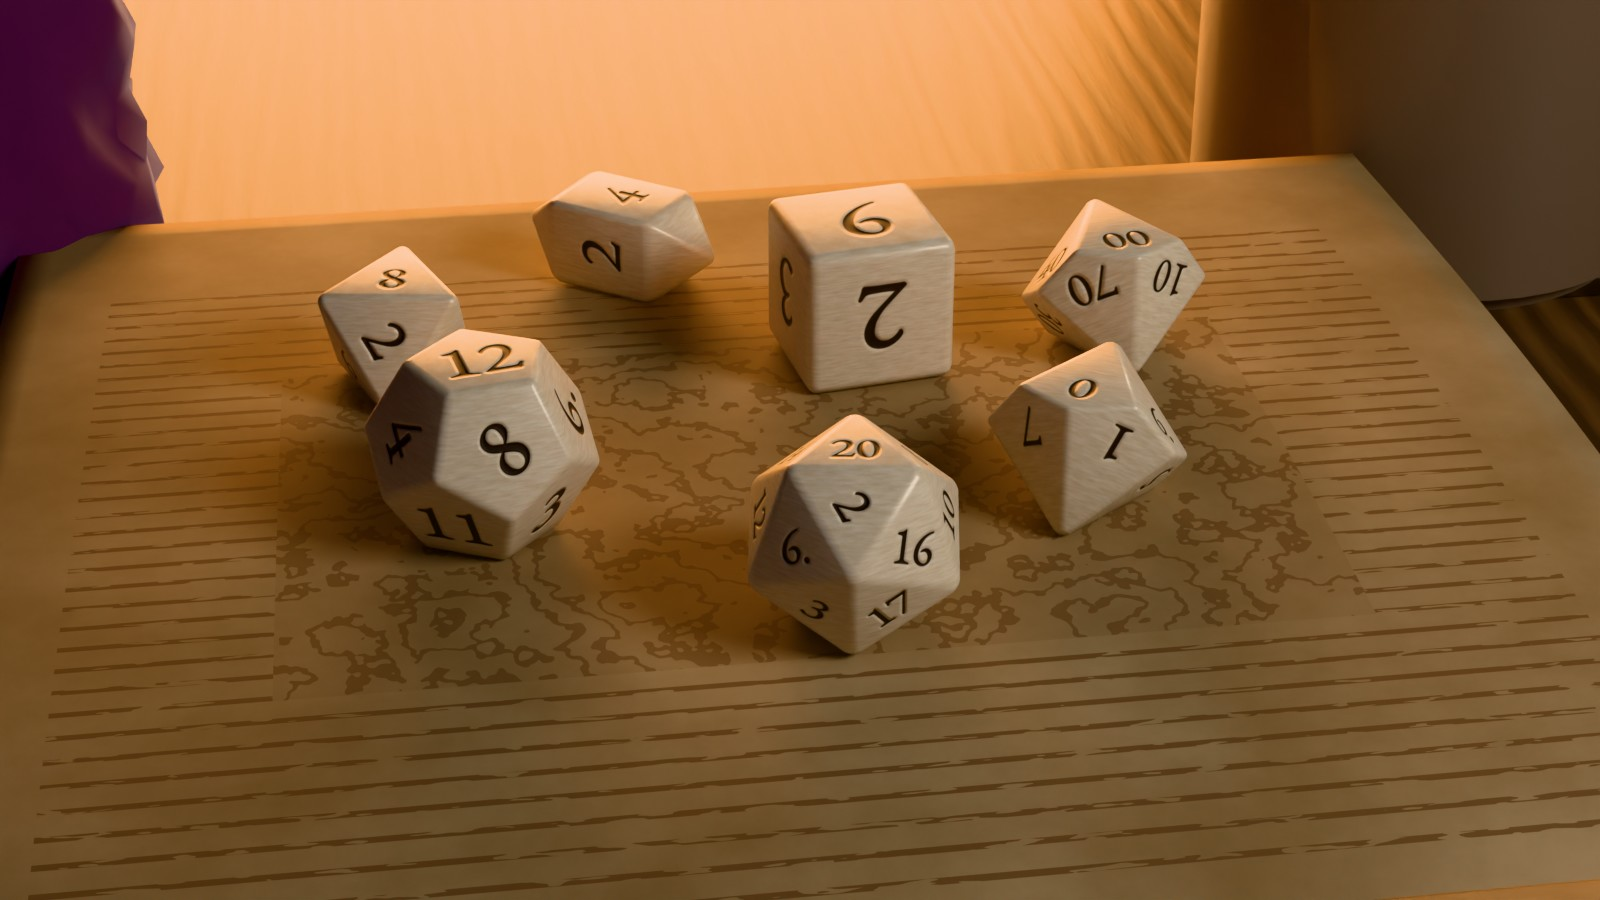
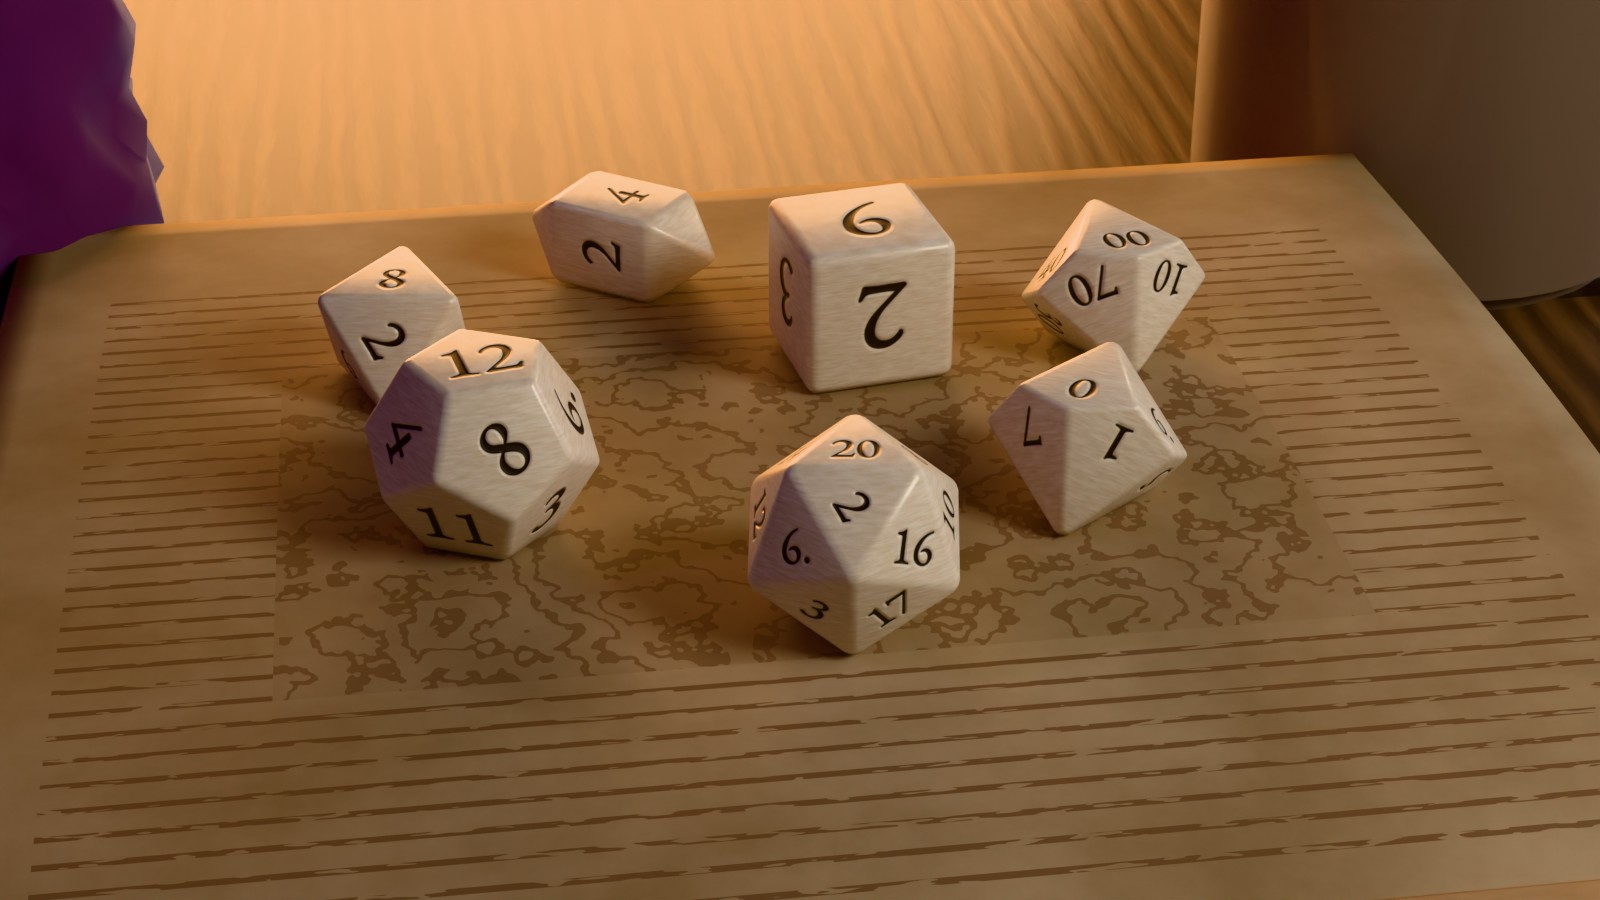
Game rooms: Hearthside reading nook; raised-hearth fireplace option

diff --git a/dart3d/example/tool/dice_lookdev/build_env_northfield.py b/dart3d/example/tool/dice_lookdev/build_env_northfield.py
@@ -20,6 +20,7 @@ import bpy
 
 import env_common as E
 import env_props as P
+import room_common as RC
 
 W, D = E.TRAY_W, E.TRAY_D
 RIM_T, RIM_H = 2.8, 3.0
@@ -249,7 +250,86 @@ def build(scene):
     P.backdrop_window(0, top + 80, 45, 90, 70, sky_top=(0.2, 0.25, 0.35), sky_bot=(0.45, 0.45, 0.5), moon=False,
                       frame_mat=E.simple("Window white", (0.8, 0.8, 0.78), 0.5))
     E.light(scene, "AREA", "dusk", (0, top + 75, 45), 8000, color=(0.6, 0.7, 1.0), size=60, target=(0, 0, 0))
+    rc = room(scene, table, top)
     return dict(
         samples=128, exposure=0.0, hero=dict(dist=32, elev=30, az=8, lens=65, fstop=2.8),
         topdown=dict(width=W + 2 * RIM_T + 3.0),
+        play_view=True, tray_half=(W / 2 + RIM_T, D / 2 + RIM_T), room_cam=rc,
     )
+
+
+def room(scene, table, top):
+    """The 1986 countryside kitchen (concept: room-concepts/northfield-room).
+
+    Striped wallpaper, a checkered lino floor, a run of cream kitchen units
+    along the left and back walls (worktop, patterned tile splashback, wall
+    cupboards, a cooker and a tall fridge), a radiator under the window with
+    floral curtains, and outside the grey field with a tree line and a
+    strange tall machine. Lights from four sides: the orange pendant over
+    the table (warm key, above), the window (grey-blue daylight, back), the
+    CRT (green accent, left) and a strip under the wall cupboards (warm,
+    back-left).
+    """
+    wy = top + 80
+    paper = RC.wallpaper("Kitchen wallpaper", (0.42, 0.36, 0.22), (0.3, 0.33, 0.2), stripes=0.08)
+    RC.shell(half_w=180, back=wy, front=-170, height=250, wall=paper,
+             floor=RC.tiles("Kitchen lino", (0.45, 0.4, 0.32), (0.1, 0.12, 0.08), scale=0.03),
+             openings={"back": [(0, 45, 90, 70)]}, ceiling=RC.plaster("Kitchen ceiling", (0.5, 0.48, 0.44)))
+    white = E.simple("Window white", (0.8, 0.8, 0.78), 0.5)
+    RC.window("back", 0, 45, 90, 70, RC.sky("Field sky", (0.2, 0.25, 0.35), (0.45, 0.45, 0.5), strength=0.9),
+              white, mullions=(2, 1), glow=(30000, (0.65, 0.72, 0.9)))
+    # outside, flat against the grey sky: a tree line and the tall machine
+    far = E.emissive("Far silhouette", (0.17, 0.19, 0.24), 1.0)
+    rng = random.Random(3)
+    for i in range(26):
+        h = rng.uniform(4, 9)
+        E.cylinder("far_tree", 1.4, h, (-45 + i * 3.6, wy + 28, 45 - 35 + 3 + h / 2), far, segs=6, r2=0.1)
+    for a in (-0.25, 0.0, 0.25):
+        leg = E.cylinder("machine_leg", 0.25, 26, (22 + a * 20, wy + 28, 45 - 35 + 16), far, segs=6)
+        leg.rotation_euler = (0, a * 0.9, 0)
+    E.sphere("machine_body", 2.4, (22, wy + 28, 45 - 35 + 30), far, subdiv=2, scale=(1.6, 0.5, 0.7))
+    E.sphere("machine_eye", 0.35, (23.5, wy + 27, 45 - 35 + 30), E.emissive("Machine eye", (1.0, 0.1, 0.05), 6.0))
+    # radiator under the window, floral curtains either side
+    for i in range(14):
+        E.cube("radiator_fin", (3, 8, 45), RC.to_world("back", -35 + i * 5.4, (0, -6, RC.FLOOR_Z + 40)), white,
+               bevel=0.8)
+    cur, k = E.material("Floral curtain")
+    obj = k.coords().outputs["Object"]
+    v = k.voronoi(RC.vertical_coords(k), 0.08)
+    dot = k.math("LESS_THAN", v.outputs["Distance"], 0.25)
+    k.surface(k.bsdf(Base_Color=k.mix(dot, (0.7, 0.66, 0.55, 1), (0.25, 0.35, 0.15, 1)), Roughness=0.9,
+                     Transmission_Weight=0.2, Sheen_Weight=0.5))
+    for sx in (-1, 1):
+        c = E.cube("curtain", (30, 3, 110), RC.to_world("back", sx * 62, (0, -8, 52)), cur)
+        c.modifiers.new("wave", "WAVE").height = 1.5
+    E.cylinder("curtain_rod", 1.0, 170, RC.to_world("back", 0, (0, -8, 110)), P.brass("Rod brass"), segs=12
+               ).rotation_euler = (0, math.radians(90), 0)
+    # kitchen units: base cabinets + worktop along the left wall, cooker, fridge, wall cupboards
+    cream = E.simple("Unit cream", (0.62, 0.58, 0.48), 0.45)
+    wood_top = P.dark_wood("Worktop", c1=(0.12, 0.07, 0.035), c2=(0.3, 0.18, 0.09), varnish=0.4)
+    for u in (-110, -50, 10):
+        RC.cabinet("left", u, w=60, h=86, depth=58, mat=cream, top_mat=wood_top)
+        RC.cabinet("left", u, w=60, h=70, depth=34, z0=RC.FLOOR_Z + 150, mat=cream, doors=2)
+    stove = RC.cabinet("left", 70, w=60, h=86, depth=60, mat=E.simple("Cooker white", (0.8, 0.79, 0.75), 0.3),
+                       doors=1)
+    for dx in (-14, 14):
+        for dy in (-12, 12):
+            p = RC.to_world("left", 70 + dx, (0, -30 + dy, RC.FLOOR_Z + 90.5))
+            E.cylinder("hob_ring", 8, 0.8, p, E.simple("Hob iron", (0.03, 0.03, 0.03), 0.4), segs=24)
+    E.cylinder("kettle", 9, 18, RC.to_world("left", 76, (0, -32, RC.FLOOR_Z + 100)),
+               E.simple("Kettle enamel", (0.7, 0.35, 0.1), 0.25), segs=24, r2=6)
+    E.cube("fridge", (62, 65, 170), RC.to_world("left", 140, (0, -34, RC.FLOOR_Z + 85)), cream, bevel=3.0)
+    tiles_m = RC.tiles("Splashback tiles", (0.75, 0.55, 0.25), (0.35, 0.2, 0.07), scale=0.07, checker=True)
+    back_splash = E.plane("splashback", 240, 60, RC.to_world("left", -20, (0, -1.5, RC.FLOOR_Z + 118)), tiles_m)
+    back_splash.rotation_euler = (math.radians(90), 0, math.radians(90))
+    RC.wall_shelf("left", -50, RC.FLOOR_Z + 128, w=60, depth=10, seed=5, kind="jars", mat=wood_top,
+                  palette=[(0.6, 0.5, 0.3), (0.3, 0.1, 0.05), (0.15, 0.25, 0.1)])
+    E.light(scene, "AREA", "under_cupboard", RC.to_world("left", -40, (0, -25, RC.FLOOR_Z + 146)), 6000,
+            color=(1.0, 0.8, 0.5), size=90, target=RC.to_world("left", -40, (0, -25, RC.FLOOR_Z + 50)))
+    RC.chair(0, 95 - 40, rot=math.radians(180), mat=wood_top, seat_h=46, back_h=40)
+    # the pendant's cord up to the ceiling; the CRT's green spills onto the left side
+    E.cylinder("lamp_cord", 0.35, 250 - 76 - 73, (6, 10, 73 + (250 - 76 - 73) / 2), E.simple("Cord", (0.9, 0.9, 0.9),
+               0.5), segs=6)
+    E.light(scene, "AREA", "crt_spill", (-3.0, top + 10, 14), 2500, color=(0.3, 1.0, 0.45), size=20,
+            target=(-60, -20, 0), shadow=False)
+    return dict(loc=(26, -66, 36), target=(-10, 90, 6), lens=20, fstop=4.0, focus=(0, 0, 2))

diff --git a/dart3d/example/tool/dice_lookdev/build_env_voltline.py b/dart3d/example/tool/dice_lookdev/build_env_voltline.py
@@ -15,6 +15,7 @@ from mathutils import Vector
 
 import env_common as E
 import env_props as P
+import room_common as RC
 
 W, D = E.TRAY_W, E.TRAY_D
 RIM_T, RIM_H = 1.6, 1.8
@@ -131,6 +132,64 @@ def build(scene):
     E.light(scene, "AREA", "neon_c", (22, top + 60, 50), 12000, color=CYAN, size=30, target=(0, 0, 0))
     E.light(scene, "AREA", "key", (0, -40, 50), 1800, color=(0.8, 0.85, 1.0), size=25, target=(0, 0, 0))
     E.haze_box("haze", (200, 200, 80), (0, 60, 40), 0.004, color=(0.9, 0.9, 1.0), noise_scale=0.03)
+    rc = room(scene, top, chrome)
     return dict(
         samples=128, exposure=0.2, topdown=dict(width=W + 2 * RIM_T + 1.0), hero=dict(dist=32, elev=28, az=6, lens=65, fstop=2.8),
+        play_view=True, tray_half=(W / 2 + RIM_T, D / 2 + RIM_T), room_cam=rc,
     )
+
+
+def room(scene, top, chrome):
+    """The late-night diner (concept: room-concepts/voltline-room).
+
+    The tray is on the window counter; the rain window is the whole back
+    wall. To the left the diner runs away from camera: a long chrome-edged
+    bar with red stools, a back bar of bottles, warm pendants over it and a
+    magenta neon strip along the ceiling; black-and-white checker floor,
+    dark panelled walls; across the street, lit windows in the far block.
+    Lights from four sides: the street neon through the window (magenta and
+    cyan, back), the bar pendants (warm, left), the ceiling neon strip
+    (magenta, above-left) and the tray's cool key from the front.
+    """
+    wy = top + 41
+    panel = P.dark_wood("Diner panel", c1=(0.02, 0.012, 0.01), c2=(0.05, 0.03, 0.02), varnish=0.6)
+    RC.shell(half_w=200, back=wy, front=-240, height=210, wall=panel, floor_z=-105.0,
+             floor=RC.tiles("Diner floor", (0.6, 0.58, 0.55), (0.02, 0.02, 0.02), scale=0.025, rough=0.2),
+             openings={"back": [(0, 44, 220, 90)]}, ceiling=E.simple("Diner ceiling", (0.02, 0.02, 0.025), 0.6))
+    E.cube("window_counter_front", (220, 4, 99), (0, -27, -55.5), chrome, bevel=0.5)
+    # lit windows across the street (a card just in front of the far wall)
+    city, k = E.material("Street block")
+    tc = k.coords().outputs["Object"]
+    b = k.node("ShaderNodeTexBrick")
+    k.link(tc, b.inputs["Vector"])
+    k.set(b, Scale=0.08, Mortar_Size=0.25, Color1=(1, 1, 1, 1), Color2=(1, 1, 1, 1), Mortar=(0, 0, 0, 1))
+    lit = k.math("MULTIPLY", k.math("SUBTRACT", 1.0, b.outputs["Fac"]),
+                 k.math("GREATER_THAN", k.noise(tc, 0.3, 2).outputs["Fac"], 0.52))
+    col = k.mix(k.noise(tc, 0.05, 2).outputs["Fac"], (1.0, 0.75, 0.45, 1), (0.5, 0.7, 1.0, 1))
+    k.surface(k.emission(col, k.math("MULTIPLY", lit, 1.2)))
+    card = E.plane("street_block", 400, 200, (0, top + 158, 60), city)
+    card.rotation_euler = (math.radians(90), math.radians(180), 0)
+    # the bar on the left: counter, chrome edge, stools, back bar, pendants
+    red = E.simple("Stool vinyl", (0.4, 0.02, 0.03), 0.3, Coat_Weight=0.6)
+    bar_top = E.simple("Bar top", (0.03, 0.03, 0.035), 0.1, Coat_Weight=1.0)
+    E.cube("bar", (60, 220, 100), (-150, -100, -55), panel, bevel=0.5)
+    E.cube("bar_top", (66, 224, 5), (-150, -100, -3), bar_top, bevel=0.8)
+    E.cube("bar_chrome", (2, 224, 6), (-117, -100, -8), chrome)
+    for i in range(5):
+        y = -190 + i * 45
+        E.cylinder("stool_post", 2.5, 70, (-100, y, -70), chrome, segs=16)
+        E.cylinder("stool_seat", 17, 9, (-100, y, -32), red, segs=32, bevel=2.0)
+        E.cylinder("stool_foot", 16, 3, (-100, y, -103), chrome, segs=32)
+    RC.wall_shelf("left", -100, -10 + 25, w=200, depth=18, seed=14, kind="bottles", mat=chrome,
+                  palette=[(0.05, 0.2, 0.05), (0.3, 0.12, 0.02), (0.2, 0.2, 0.25), (0.25, 0.02, 0.05)])
+    RC.wall_shelf("left", -100, 20 + 25, w=200, depth=18, seed=15, kind="bottles", mat=chrome,
+                  palette=[(0.05, 0.2, 0.05), (0.3, 0.12, 0.02), (0.2, 0.2, 0.25), (0.25, 0.02, 0.05)])
+    for y in (-170, -100, -30):
+        RC.pendant_lamp(scene, -145, y, 55, energy=20000, color=(1.0, 0.72, 0.45), shade=(0.8, 0.8, 0.82), r=16,
+                        spot_deg=100)
+    RC.neon_bar(scene, (-190, -235, 100), (-190, wy - 5, 100), MAGENTA, strength=18.0, energy=15000)
+    RC.neon_bar(scene, (-195, wy - 4, 96), (195, wy - 4, 96), CYAN, strength=14.0, energy=12000)
+    # a booth bench behind the camera side on the right, with a table lamp glow
+    E.cube("booth_seat", (60, 130, 45), (170, -130, -82), red, bevel=4)
+    E.cube("booth_back", (15, 130, 70), (195, -130, -40), red, bevel=4)
+    return dict(loc=(22, -62, 34), target=(-24, 80, 4), lens=20, fstop=4.0, focus=(0, 0, 2))

diff --git a/dart3d/example/tool/dice_lookdev/room_common.py b/dart3d/example/tool/dice_lookdev/room_common.py
@@ -401,7 +401,7 @@ def column(x, y, h, r, mat, base=True):
 # --------------------------------------------------------------------------
 
 def fireplace(scene, wall, u, w=120, h=110, depth=45, mat=None, energy=90000, mantel=True, breast=True,
-              opening=(0.56, 0.52), color=(1.0, 0.45, 0.14), fire_scale=1.0, seed=0, flame=None):
+              opening=(0.56, 0.52), color=(1.0, 0.45, 0.14), fire_scale=1.0, seed=0, flame=None, base=0.0):
     """A fireplace / forge mouth against `wall` at u: surround with a real
     opening, sooty firebox, flames and coals, a warm light at the mouth and
     a dimmer one inside (so the reveal glows and the light spills out in a
@@ -448,10 +448,19 @@ def fireplace(scene, wall, u, w=120, h=110, depth=45, mat=None, energy=90000, ma
     parts.append(E.plane("firebox_glow", ow * 0.9, oh * 0.6, (0, -5.5, oh * 0.3), glow_in))
     parts[-1].rotation_euler = (math.radians(90), 0, 0)
     loc, rz = _wall_frame(wall, u)
-    _group("fireplace", parts, loc + Vector((0, 0, FLOOR_Z)), rz)
-    E.light(scene, "POINT", "hearth_inner", to_world(wall, u, (0, -depth * 0.4, FLOOR_Z + 30 * fire_scale)),
+    if base:  # a raised hearth: everything sits on a stone plinth (visible over a table)
+        _group("fireplace_plinth", [E.cube("hearth_plinth", (w * 1.15, depth * 1.6, base),
+                                           (0, -depth * 0.8, base / 2), mat)], loc + Vector((0, 0, FLOOR_Z)), rz)
+        top = _ROOM["height"]
+        for p_ in parts:
+            if p_.name.startswith("chimney_breast"):
+                p_.scale.z = (top - h - base) / (top - h)
+                p_.location.z = h + (top - h - base) / 2
+    fz0 = FLOOR_Z + base
+    _group("fireplace", parts, loc + Vector((0, 0, fz0)), rz)
+    E.light(scene, "POINT", "hearth_inner", to_world(wall, u, (0, -depth * 0.4, fz0 + 30 * fire_scale)),
             energy * 0.25, color=color, size=15, shadow=False)
-    return E.light(scene, "AREA", "hearth_mouth", to_world(wall, u, (0, -depth - 6, FLOOR_Z + oh * 0.45)), energy,
+    return E.light(scene, "AREA", "hearth_mouth", to_world(wall, u, (0, -depth - 6, fz0 + oh * 0.45)), energy,
                    color=color, size=ow * 0.8, target=to_world(wall, u, (0, -depth - 200, FLOOR_Z + 40)))
 
 

diff --git a/dart3d/example/tool/dice_lookdev/build_env_hearthside.py b/dart3d/example/tool/dice_lookdev/build_env_hearthside.py
@@ -139,14 +139,14 @@ def room(scene):
     """
     wall = RC.plaster("Nook plaster", (0.22, 0.17, 0.12))
     oak = P.dark_wood("Nook oak", c1=(0.05, 0.025, 0.012), c2=(0.16, 0.085, 0.04))
-    RC.shell(half_w=180, back=150, front=-190, height=260, wall=wall, floor=RC.planks(),
+    RC.shell(half_w=180, back=230, front=-190, height=260, wall=wall, floor=RC.planks(),
              openings={"right": [(70, 45, 80, 110)]})
     RC.beams(oak, n=3)
     RC.work_table(200, 150, top_z=0.0, thick=6.0, mat=oak, leg_r=6, y=20, top=False)
-    RC.fireplace(scene, "back", 0, w=150, h=125, depth=40, energy=120000, seed=3,
+    RC.fireplace(scene, "back", -40, w=150, h=125, depth=40, energy=150000, seed=3, base=40,
                  mat=RC.stone("Nook fieldstone", (0.08, 0.07, 0.06), (0.24, 0.2, 0.16), scale=0.03, blocks=True))
-    for u, seed in ((-125, 5), (125, 6)):
-        RC.bookshelf("back", u, w=90, h=220, depth=30, rows=7, seed=seed, mat=oak)
+    for u, w, seed in ((-148, 60, 5), (100, 100, 6)):
+        RC.bookshelf("back", u, w=w, h=220, depth=30, rows=7, seed=seed, mat=oak)
     rain = RC.sky("Rainy dusk", (0.05, 0.07, 0.14), (0.14, 0.16, 0.26), stars=0.0, strength=0.8,
                   skyline=((0.03, 0.04, 0.07), 0.3))
     RC.window("right", 70, 45, 80, 110, rain, oak, mullions=(2, 3), glow=(45000, (0.55, 0.65, 0.95)))
@@ -184,4 +184,4 @@ def room(scene):
     RC.hanging_lantern(scene, -95, 10, 80, energy=18000, color=(0.75, 0.4, 1.0), glass_color=(0.6, 0.3, 0.9),
                        mat=brass)
     RC.rug(0, -20, 280, 220, (0.25, 0.08, 0.05), (0.08, 0.05, 0.1), name="Nook rug")
-    return dict(loc=(-14, -72, 44), target=(4, 100, 2), lens=20, fstop=4.0, focus=(0, 0, 4))
+    return dict(loc=(-26, -70, 40), target=(18, 120, 8), lens=20, fstop=4.0, focus=(0, 0, 4))

diff --git a/docs/design/dice-lookdev.md b/docs/design/dice-lookdev.md
@@ -1111,6 +1111,17 @@ Lighting recipes (the tray lights are unchanged unless noted):
   looking up into the sky. Gate: numeral 11.35 (d12), die vs tray 2.45,
   stroke 0.121–0.130, PASS.
 
+- **Hearthside — the fireside reading nook.** A raised fieldstone
+  fireplace behind the oak table (back-left, 150 kW, the warm key that
+  also back-lights the tome; the old stand-in hearth box on the table is
+  gone, its glow light stays), bookcases either side, a leather wing
+  armchair with a wine-red throw by the rain-streaked window on the right
+  wall (area, 45 kW, blue-grey, the cool fill), lavender in a jug on the
+  sill, a brass floor lamp by the chair (25 kW, warm, right-front) and a
+  violet-glass lantern hung on the left (18 kW, the lavender accent);
+  over the tray's reading key and cool fill. Camera: 20 mm, f/4. Gate:
+  numeral 5.45 (d4), die vs tray 2.21, stroke 0.123–0.129, PASS.
+
 ## 4. dart3d features to verify (before building these for real)
 
 1. **Emissive intensity > 1 + bloom threshold** on both platforms, and
